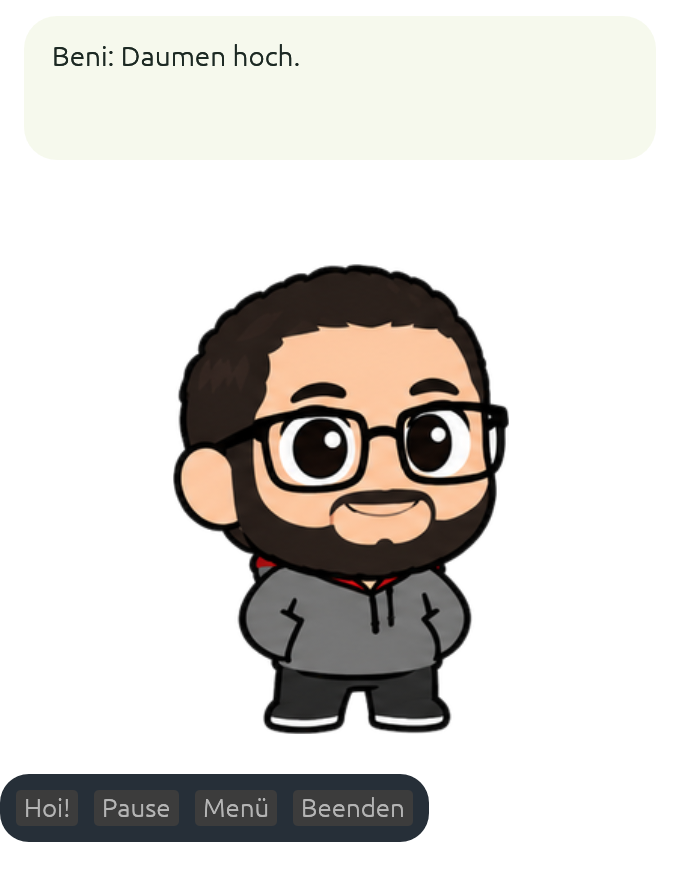
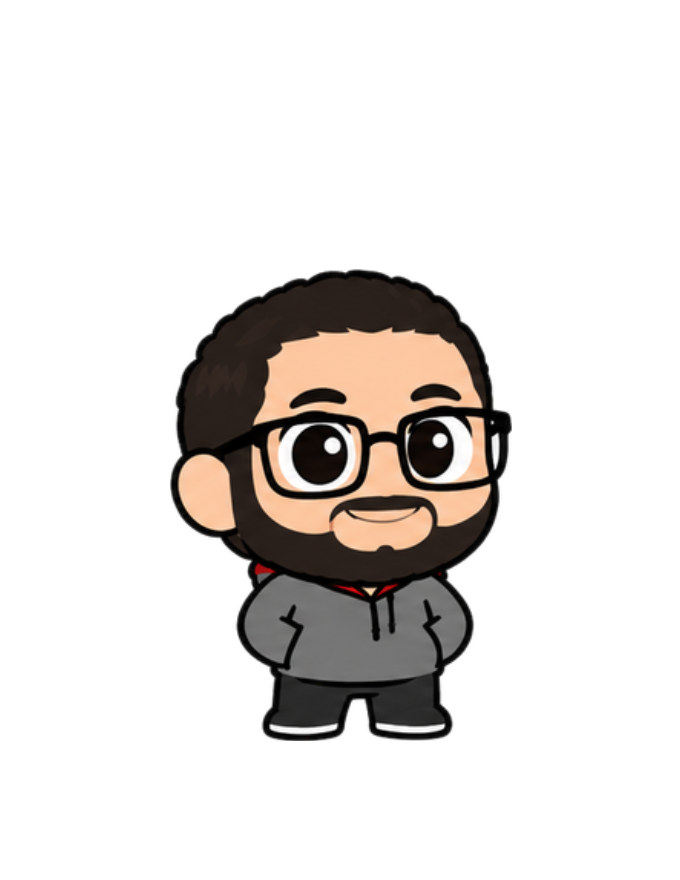
Bedienleiste per Klick auf Beni auf- und zuklappen

diff --git a/apps/desktop/src/app.rs b/apps/desktop/src/app.rs
@@ -25,6 +25,7 @@ pub struct BuddyApp {
     ipc_enabled: bool,
     server: Option<buddy_ipc::Server>,
     hidden: bool,
+    controls_open: bool,
     menu_open: bool,
     speech_draft: String,
     error: Option<TransientError>,
@@ -68,7 +69,7 @@ impl BuddyApp {
             texture,
             settings,
             last_tick: Instant::now(),
-            message: "Hoi! Ich bin Beni. Zieh mich an deinen Lieblingsplatz.".into(),
+            message: "Hoi! Ich bin Beni. Klick mich für die Bedienung an oder zieh mich an deinen Lieblingsplatz.".into(),
             message_until: Instant::now() + Duration::from_secs(10),
             message_source: None,
             active_remote: false,
@@ -78,6 +79,7 @@ impl BuddyApp {
                 .unwrap_or(false),
             server: None,
             hidden: false,
+            controls_open: false,
             menu_open: false,
             speech_draft: "Schön bist du da!".into(),
             error: None,
@@ -225,9 +227,16 @@ impl BuddyApp {
             ui.ctx().send_viewport_cmd(egui::ViewportCommand::StartDrag);
         }
         if response.clicked() {
-            self.play("hallo", "Hoi! Ich bin dein Desktop-Buddy.");
+            self.controls_open = !self.controls_open;
+            if !self.controls_open {
+                self.menu_open = false;
+            }
         }
-        response.on_hover_text("Ziehen: verschieben · Klicken: Hallo sagen");
+        response.on_hover_text(if self.controls_open {
+            "Ziehen: verschieben · Klicken: Bedienung zuklappen"
+        } else {
+            "Ziehen: verschieben · Klicken: Bedienung aufklappen"
+        });
         match self.avatar_mesh(stage) {
             Ok(mesh) => {
                 ui.painter().add(egui::Shape::mesh(mesh));
@@ -343,7 +352,7 @@ impl BuddyApp {
                     let message = self.speech_draft.clone();
                     self.play("reden", &message);
                 }
-                ui.small("Esc schliesst das Menü. Alt/Option + Q beendet Beni.");
+                ui.small("Esc klappt die Bedienung zu. Alt/Option + Q beendet Beni.");
             });
         self.menu_open = open;
     }
@@ -368,14 +377,18 @@ impl BuddyApp {
         }
         if ctx.input(|i| i.key_pressed(egui::Key::Escape)) {
             self.menu_open = false;
+            self.controls_open = false;
         }
         ui.vertical_centered(|ui| {
             ui.add_space(8.0);
             self.speech(ui, now);
+            // Keep Beni's size and position stable when the controls toggle.
             let stage_height = (ui.available_height() - 52.0).max(100.0);
             let (_, stage) = ui.allocate_space(Vec2::new(ui.available_width(), stage_height));
             self.paint_avatar(ui, stage);
-            self.controls(ui);
+            if self.controls_open {
+                self.controls(ui);
+            }
         });
         self.menu(&ctx);
         let occluded = ctx.input(|i| i.viewport().occluded.unwrap_or(false));
@@ -514,13 +527,14 @@ mod tests {
             texture: ctx.load_texture("test-atlas", image, egui::TextureOptions::LINEAR),
             settings: Settings::default(),
             last_tick: Instant::now(),
-            message: "Hoi!".into(),
+            message: "Hoi aus der Test-Sprechblase!".into(),
             message_until: Instant::now() + Duration::from_secs(10),
             message_source: None,
             active_remote: false,
             ipc_enabled: false,
             server: None,
             hidden: false,
+            controls_open: false,
             menu_open: false,
             speech_draft: "Hoi von den Tests!".into(),
             error: None,
@@ -567,6 +581,30 @@ mod tests {
             .find_map(|s| find_text(&s.shape, needle))
             .unwrap_or_else(|| panic!("UI text missing: {needle}"))
     }
+    fn avatar_rect(output: &egui::FullOutput, app: &BuddyApp) -> Rect {
+        let points = output
+            .shapes
+            .iter()
+            .find_map(|s| match &s.shape {
+                egui::Shape::Mesh(mesh) if mesh.texture_id == app.texture.id() => {
+                    Some(mesh.vertices.iter().map(|v| v.pos).collect::<Vec<_>>())
+                }
+                _ => None,
+            })
+            .expect("avatar mesh");
+        Rect::from_points(&points)
+    }
+    fn assert_controls_hidden(output: &egui::FullOutput) {
+        for label in ["Hoi!", "Pause", "Weiter", "Menü", "Beenden"] {
+            assert!(
+                !output
+                    .shapes
+                    .iter()
+                    .any(|s| find_text(&s.shape, label).is_some()),
+                "collapsed controls must not show {label}"
+            );
+        }
+    }
     fn click(
         ctx: &egui::Context,
         app: &mut BuddyApp,
@@ -601,9 +639,72 @@ mod tests {
         )
     }
     #[test]
+    fn avatar_click_toggles_controls_without_replacing_a_status_or_moving_beni() {
+        let ctx = egui::Context::default();
+        let mut app = app(&ctx);
+        app.play("daumen", "Build grün");
+        app.player.paused = true;
+        app.message_source = Some("codex-test".into());
+        app.active_remote = true;
+        let deadline = app.message_until;
+        let output = frame(&ctx, &mut app, 0.0, vec![]);
+        assert!(!app.controls_open);
+        assert_controls_hidden(&output);
+        let avatar = avatar_rect(&output, &app);
+        output.drop_without_applying_deltas();
+
+        click(&ctx, &mut app, avatar.center(), 0.1).drop_without_applying_deltas();
+        assert!(app.controls_open);
+        let output = frame(&ctx, &mut app, 0.2, vec![]);
+        for label in ["Hoi!", "Weiter", "Menü", "Beenden"] {
+            text_rect(&output, label);
+        }
+        assert_eq!(avatar_rect(&output, &app), avatar);
+        text_rect(&output, "Build grün");
+        text_rect(&output, "codex-test");
+        output.drop_without_applying_deltas();
+
+        click(&ctx, &mut app, avatar.center(), 0.3).drop_without_applying_deltas();
+        assert!(!app.controls_open);
+        let output = frame(&ctx, &mut app, 0.4, vec![]);
+        assert_controls_hidden(&output);
+        assert_eq!(avatar_rect(&output, &app), avatar);
+        assert_eq!(app.player.state(), "daumen");
+        assert_eq!(app.message, "Build grün");
+        assert_eq!(app.message_source.as_deref(), Some("codex-test"));
+        assert_eq!(app.message_until, deadline);
+        assert!(app.active_remote);
+        output.drop_without_applying_deltas();
+    }
+    #[test]
+    fn escape_closes_settings_and_collapses_controls() {
+        let ctx = egui::Context::default();
+        let mut app = app(&ctx);
+        app.controls_open = true;
+        app.menu_open = true;
+        frame(&ctx, &mut app, 0.0, vec![]).drop_without_applying_deltas();
+        let output = frame(
+            &ctx,
+            &mut app,
+            0.1,
+            vec![egui::Event::Key {
+                key: egui::Key::Escape,
+                physical_key: None,
+                pressed: true,
+                repeat: false,
+                modifiers: Default::default(),
+            }],
+        );
+        assert!(!app.menu_open);
+        assert!(!app.controls_open);
+        assert_controls_hidden(&output);
+        output.drop_without_applying_deltas();
+    }
+    #[test]
     fn controls_remain_inside_native_window_after_multiple_frames() {
         let ctx = egui::Context::default();
         let mut app = app(&ctx);
+        app.controls_open = true;
         for i in 0..5 {
             let output = frame(&ctx, &mut app, i as f64 * 0.1, vec![]);
             for label in ["Hoi!", "Pause", "Menü", "Beenden"] {
@@ -627,6 +728,7 @@ mod tests {
     fn pointer_clicks_open_menu_change_motion_and_show_speech() {
         let ctx = egui::Context::default();
         let mut app = app(&ctx);
+        app.controls_open = true;
         let output = frame(&ctx, &mut app, 0.0, vec![]);
         let pos = text_rect(&output, "Menü").center();
         output.drop_without_applying_deltas();
@@ -649,17 +751,7 @@ mod tests {
         let ctx = egui::Context::default();
         let mut app = app(&ctx);
         let output = frame(&ctx, &mut app, 0.0, vec![]);
-        let points = output
-            .shapes
-            .iter()
-            .find_map(|s| match &s.shape {
-                egui::Shape::Mesh(mesh) if mesh.texture_id == app.texture.id() => {
-                    Some(mesh.vertices.iter().map(|v| v.pos).collect::<Vec<_>>())
-                }
-                _ => None,
-            })
-            .expect("avatar mesh");
-        let pos = Rect::from_points(&points).center();
+        let pos = avatar_rect(&output, &app).center();
         output.drop_without_applying_deltas();
         frame(
             &ctx,
@@ -688,11 +780,26 @@ mod tests {
                 .contains(&egui::ViewportCommand::StartDrag)
         );
         output.drop_without_applying_deltas();
+        let output = frame(
+            &ctx,
+            &mut app,
+            0.3,
+            vec![egui::Event::PointerButton {
+                pos: pos + egui::vec2(30.0, 0.0),
+                button: egui::PointerButton::Primary,
+                pressed: false,
+                modifiers: Default::default(),
+            }],
+        );
+        assert!(!app.controls_open, "dragging must not toggle controls");
+        assert_controls_hidden(&output);
+        output.drop_without_applying_deltas();
     }
     #[test]
     fn pause_resume_and_quit_work_through_real_egui_responses() {
         let ctx = egui::Context::default();
         let mut app = app(&ctx);
+        app.controls_open = true;
         let output = frame(&ctx, &mut app, 0.0, vec![]);
         let pos = text_rect(&output, "Pause").center();
         output.drop_without_applying_deltas();
@@ -789,15 +896,24 @@ mod tests {
             app.error.is_none(),
             "persistent draw errors must not restart the timer"
         );
+        assert_controls_hidden(&output);
+        let avatar = text_rect(&output, "Beni").center();
+        output.drop_without_applying_deltas();
+        click(&ctx, &mut app, avatar, 0.5).drop_without_applying_deltas();
+        assert!(
+            app.controls_open,
+            "fallback avatar must still open controls"
+        );
+        let output = frame(&ctx, &mut app, 0.6, vec![]);
         let menu = text_rect(&output, "Menü").center();
         output.drop_without_applying_deltas();
-        click(&ctx, &mut app, menu, 0.5).drop_without_applying_deltas();
+        click(&ctx, &mut app, menu, 0.7).drop_without_applying_deltas();
         assert!(app.menu_open);
         app.menu_open = false;
-        let output = frame(&ctx, &mut app, 0.6, vec![]);
+        let output = frame(&ctx, &mut app, 0.8, vec![]);
         let quit = text_rect(&output, "Beenden").center();
         output.drop_without_applying_deltas();
-        let output = click(&ctx, &mut app, quit, 0.7);
+        let output = click(&ctx, &mut app, quit, 0.9);
         assert!(
             output.viewport_output[&egui::ViewportId::ROOT]
                 .commands
@@ -860,6 +976,7 @@ mod tests {
         let ctx = egui::Context::default();
         ctx.all_styles_mut(|style| style.animation_time = 0.0);
         let mut app = app(&ctx);
+        app.controls_open = true;
         let text = "Beni erklärt den nächsten Schritt. ".repeat(11);
         app.play("reden", &text);
         app.message_source = Some("W".repeat(48));

diff --git a/README.md b/README.md
@@ -4,9 +4,9 @@ Mini-Beni als nativer Desktop-Buddy in Rust: ein animierter Begleiter auf dem De
 
 Die native Rust-Grundlage ist auf macOS gestartet und visuell geprüft. Tests, Clippy und Release-Builds bestehen in GitHub Actions auf macOS, Windows und Linux.
 
-<img src="docs/images/macos-buddy.png" alt="Beni als nativer macOS-Desktop-Buddy mit Sprechblase und Bedienleiste" width="340">
+<img src="docs/images/macos-buddy.png" alt="Beni als nativer macOS-Desktop-Buddy mit eingeklappter Bedienleiste" width="340">
 
-<img src="docs/images/macos-status.png" alt="Beni zeigt eine lokale Statusmeldung mit Quellenname und Daumen-hoch-Geste" width="340">
+<img src="docs/images/macos-status.png" alt="Beni zeigt eine lokale Statusmeldung mit Quellenname und Daumen-hoch-Geste bei aufgeklappter Bedienleiste" width="340">
 
 ## Aktueller Stand
 
@@ -50,9 +50,10 @@ Linux-Desktop-/Compositor-Verhalten muss separat abgenommen werden. Ein erfolgre
 | Aktion | Bedienung |
 | --- | --- |
 | Beni verschieben | Beni mit der linken Maustaste ziehen |
+| Bedienleiste auf-/zuklappen | Beni anklicken; beim Start ist die Leiste eingeklappt |
 | Beni anzeigen / ausblenden | «Beni» in der Menüleiste → «Beni anzeigen» / «Beni ausblenden» |
 | Verlorenen Beni zurückholen | «Beni» in der Menüleiste → «Beni zurückholen» (Hauptbildschirm) |
-| Begrüssen | Beni oder «Hoi!» anklicken |
+| Begrüssen | Bedienleiste aufklappen → «Hoi!» |
 | Pause/Fortsetzen | «Pause» / «Weiter» |
 | Animation auswählen | «Menü» → Animation |
 | Energie, Tempo, Spiegelung | «Menü» |
@@ -60,10 +61,12 @@ Linux-Desktop-/Compositor-Verhalten muss separat abgenommen werden. Ein erfolgre
 | Eigene Sprechblase | Nachricht im Menü eingeben; lange Texte scrollen; Blase anklicken oder mit × schliessen |
 | Status von lokalen Programmen | «Menü» → «Statusmeldungen empfangen», danach CLI `notify` oder `run` |
 | Vordergrunddarstellung | «Menü» → «Immer im Vordergrund» |
-| Menü schliessen | Escape |
+| Menü und Bedienleiste schliessen | Escape oder Beni erneut anklicken |
 | Beenden | «Beenden» im Fenster oder Tray; Alt/Option + Q bei fokussiertem Buddy-Fenster |
 
-15 Desktoptests prüfen UI-Ereignisse, Fehlerablauf, Bedienbarkeit bei Zeichenfehlern, Tray-Aktionen ohne Zeichnen und Fensterpositionen. Fenster-/Compositor-Verhalten auf Windows/Linux sowie die vollständige manuelle Abnahme bleiben separat zu prüfen.
+Die Bedienleiste erscheint erst nach einem Klick auf Beni. Ein weiterer Klick oder Escape klappt sie wieder zu und schliesst offene Einstellungen. Benis Grösse und Position bleiben beim Auf-/Zuklappen gleich; aktive Statusmeldungen behalten Text, Quelle, Geste und Anzeigedauer. Ziehen klappt die Leiste nicht auf. Das Tray-Menü ist auch bei eingeklappter Bedienung verfügbar.
+
+17 Desktoptests prüfen UI-Ereignisse, ein-/ausgeklappte Bedienung, Fehlerablauf, Bedienbarkeit bei Zeichenfehlern, Tray-Aktionen ohne Zeichnen und Fensterpositionen. Fenster-/Compositor-Verhalten auf Windows/Linux sowie die vollständige manuelle Abnahme bleiben separat zu prüfen.
 
 Das Tray-Menü bietet auch Pause/Fortsetzen und Einstellungen. Gespeicherte Positionen werden beim Start und nach Änderungen der Bildschirme geprüft; vollständig verlorene Fenster werden automatisch zurückgeholt. Auf macOS berücksichtigt dies Menüleiste, Dock und Retina-Punkte. Eine Fehlermeldung verschwindet nach sechs Sekunden oder bei einer erfolgreichen Aktion; bei einem Zeichenfehler bleibt eine bedienbare Ersatzfläche sichtbar.
 

diff --git a/docs/VALIDATION.md b/docs/VALIDATION.md
@@ -71,3 +71,17 @@ Die neuen Sprechblasentests prüfen die Erreichbarkeit der letzten Textzeile, da
 | NOT_RUN | Codex-Laufzeit auf Windows/Linux und Cloud-Orchestrierung | Portable Hook-/Installer-Tests laufen in CI; reale Codex-Integration dort nicht ausgeführt |
 
 Die direkten Script-Tests bestätigen den Weg Script → CLI → Beni; sie belegen noch keine automatische Ausführung durch Codex. Ein Probeaufruf des bestehenden Daemon-Proxys lief in einen Timeout. Der anschliessende read-only `hooks/list`-Aufruf über einen temporären stdio-App-Server bestätigte die Registrierung. Der laufende Daemon wurde nicht neu gestartet und es wurde keine zusätzliche Modellsitzung erzeugt.
+
+## Einklappbare Bedienleiste
+
+| Status | Prüfung | Ergebnis |
+| --- | --- | --- |
+| PASS | `./scripts/check.sh --desktop` | 44 Rusttests (27 Root, 17 Desktop), 11 Integrationstests, Formatierung, Asset-Hashes, beide Clippy-Prüfungen und Debug-Build |
+| PASS | UI-Ereignisse | Start eingeklappt; Avatar-Klick klappt auf/zu, ohne Text, Quelle, Geste oder Frist einer aktiven Meldung zu ersetzen; Avatar-Geometrie bleibt gleich |
+| PASS | Bedienregressionen | Escape schliesst Einstellungen und Leiste; Dragging klappt die Leiste nicht auf; bei Zeichenfehlern öffnet der Ersatzavatar die Bedienung weiterhin |
+| PASS | `./scripts/package-macos.sh` | Release-Build und valides Bundle; lokale laufende Instanz aktualisiert |
+| PASS | Native macOS-Prüfung | Start eingeklappt, Avatar-Klick auf/zu, Einstellungen öffnen und Escape im fokussierten Fenster; eigene Fensteraufnahmen bestätigen transparenten Bereich statt Leiste |
+| PASS | Status nach Aktualisierung | Installierte CLI liefert Annahme; Quellenname und Statusblase erscheinen weiterhin bei eingeklappter Bedienung |
+| NOT_RUN | Native Windows-/Linux-GUI | Derselbe egui-Code; lokale Desktop-Abnahme auf diesen Plattformen weiterhin offen |
+
+Die Bedienleiste behält ihren Platz im transparenten Fenster, auch wenn sie eingeklappt ist. Dadurch verändert das Auf-/Zuklappen weder Benis Grösse noch seine Position. Der offene Zustand wird nicht gespeichert: Nach einem Neustart ist die Leiste wieder eingeklappt. Transparente Fensterbereiche sind weiterhin nicht durchklickbar.

diff --git a/docs/ROADMAP.md b/docs/ROADMAP.md
@@ -14,6 +14,7 @@ Abnahme: Ein echter Build läuft auf dem Desktop und besteht die manuelle Testma
 
 - Erledigt: Tray-Menü mit Anzeigen, Zurückholen, Verbergen, Pause, Einstellungen und Beenden.
 - Erledigt: zeitlich begrenzte Fehleranzeige und weiter bedienbare Ersatzfläche bei Zeichenfehlern.
+- Erledigt: Bedienleiste startet eingeklappt und lässt sich per Klick auf Beni oder Escape wieder zuklappen, ohne laufende Statusmeldungen zu ersetzen.
 - Click-through für transparente Flächen mit einer verlässlichen Rückholmöglichkeit.
 - Globale Rückhol-/Pause-Aktion, Benutzerwahl für Hotkeys.
 - Grössenwahl; Arbeitsbereich wird bereits beim Start und nach Monitorwechsel berücksichtigt.
